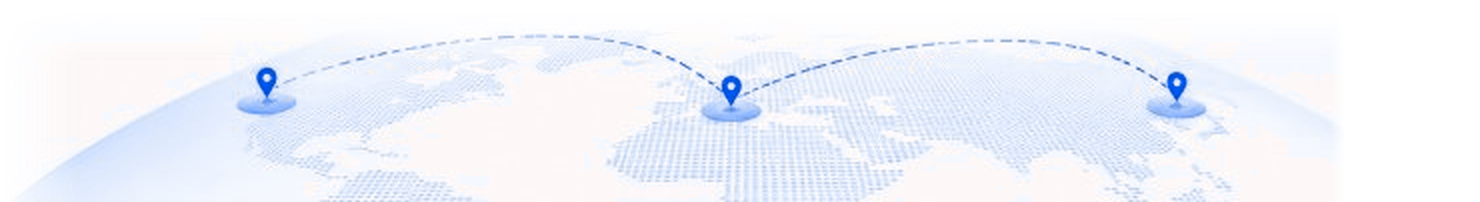
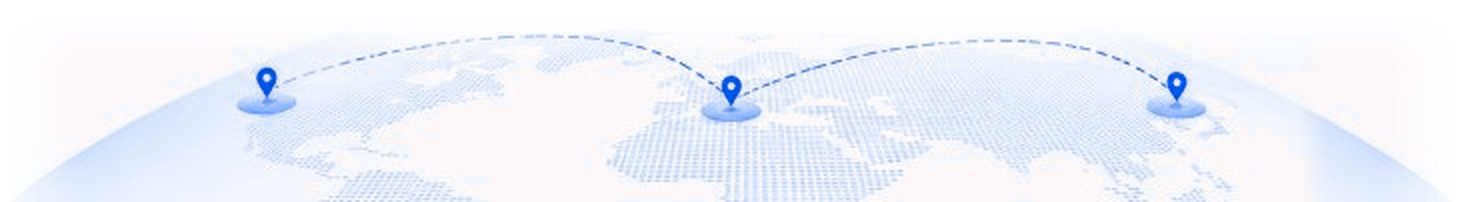
fix(web): make team globe dome right edge smoothly symmetric with left edge

diff --git a/apps/web/src/components/MeetOurTeamSection.tsx b/apps/web/src/components/MeetOurTeamSection.tsx
@@ -81,11 +81,11 @@ export function MeetOurTeamSection({ onOpenEnquiry }: MeetOurTeamSectionProps) {
         <div className="pointer-events-none absolute inset-x-0 bottom-0 flex justify-center select-none overflow-hidden leading-none z-0">
           <picture className="block w-full max-w-[580px] sm:max-w-[640px] md:max-w-[700px] lg:max-w-[740px] mx-auto px-4 sm:px-0">
             <source
-              srcSet="/home/team-globe-center-blue.webp?v=1"
+              srcSet="/home/team-globe-center-blue.webp?v=2"
               type="image/webp"
             />
             <img
-              src="/home/team-globe-center-blue.png?v=1"
+              src="/home/team-globe-center-blue.png?v=2"
               alt=""
               className="w-full h-auto max-h-[80px] sm:max-h-[90px] md:max-h-[100px] object-contain object-bottom pointer-events-none select-none block mx-auto"
               loading="eager"
